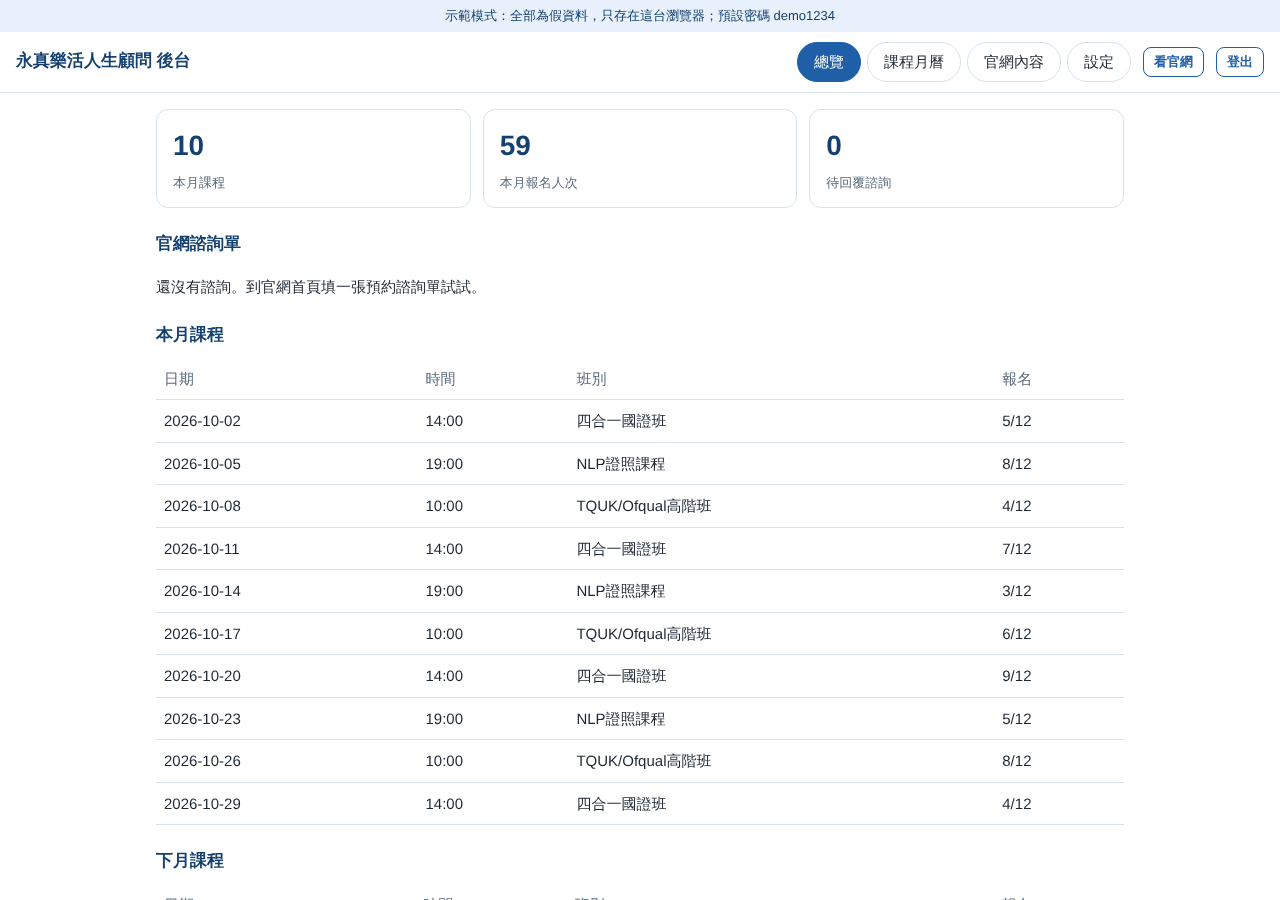
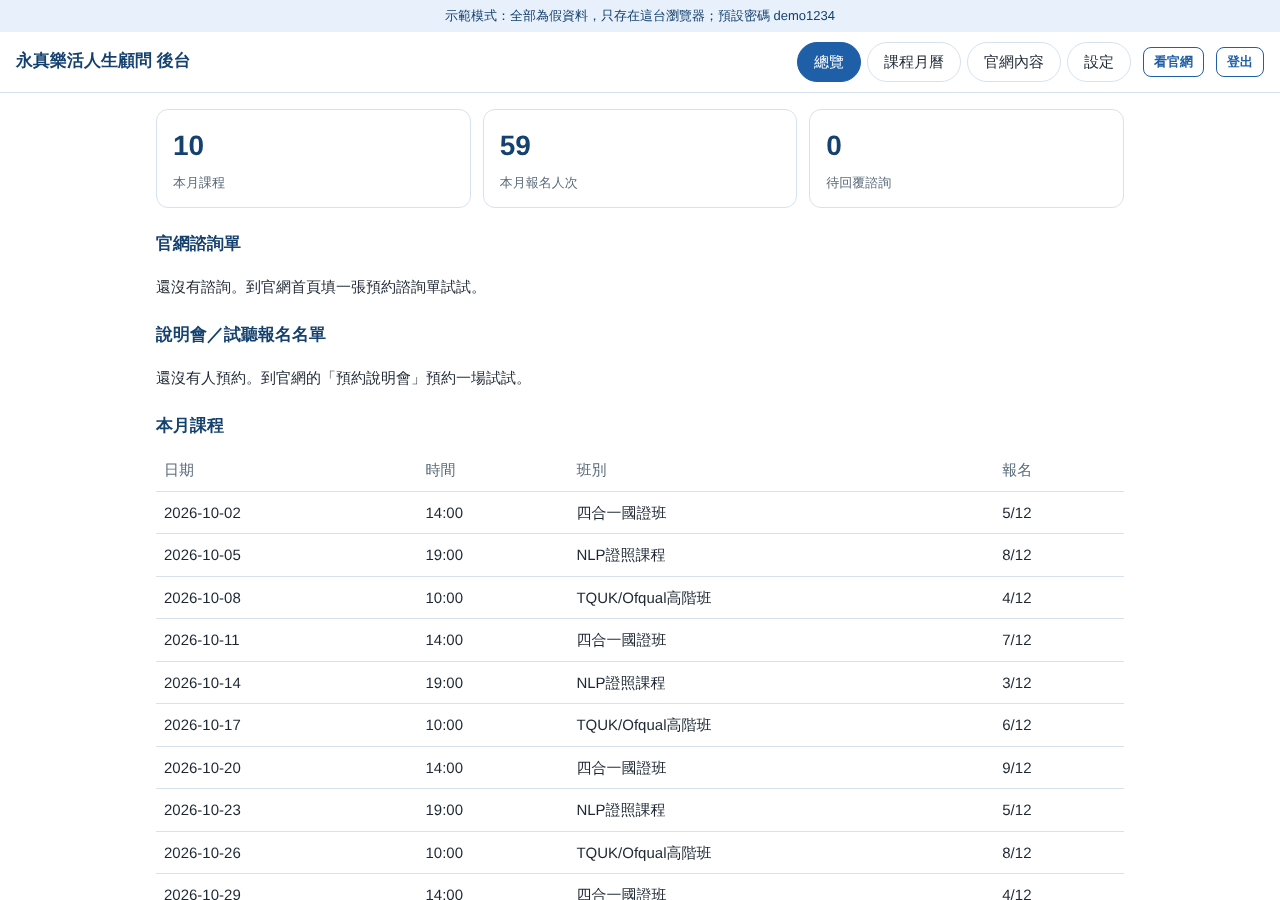
Add carousel, lightbox, news management, session booking, privacy and terms pages
Claude-Session: https://claude.ai/code/session_019kNnCbEj1agt1GxmbbquhY

diff --git a/yongzhen-site/src/admin.js b/yongzhen-site/src/admin.js
@@ -2,30 +2,13 @@
 'use strict';
 var S=window.SITE,$=function(s,r){return (r||document).querySelector(s)};
 var app=$('#app');
-function get(k,d){try{var v=localStorage.getItem(k);return v?JSON.parse(v):d}catch(e){return d}}
-function set(k,v){try{localStorage.setItem(k,JSON.stringify(v))}catch(e){toast('瀏覽器空間不足或被封鎖')}}
+function get(k,d){return YZ.get(k,d)}
+function set(k,v){if(!YZ.set(k,v))toast('瀏覽器空間不足或被封鎖')}
 function esc(s){return String(s==null?'':s).replace(/[&<>"]/g,function(c){return{'&':'&amp;','<':'&lt;','>':'&gt;','"':'&quot;'}[c]})}
 function toast(t){var d=document.createElement('div');d.className='toast';d.textContent=t;document.body.appendChild(d);setTimeout(function(){d.remove()},1800)}
-var pad=function(n){return n<10?'0'+n:''+n};
-var ym=function(d){return d.getFullYear()+'-'+pad(d.getMonth()+1)};
 
-// ---- 假資料（只在第一次建立）----
-function seedSessions(){
-  var out=[],now=new Date(),times=['10:00','14:00','19:00'],n=0;
-  for(var m=0;m<2;m++){
-    var base=new Date(now.getFullYear(),now.getMonth()+m,1),days=new Date(base.getFullYear(),base.getMonth()+1,0).getDate();
-    for(var d=2;d<=days;d+=3){
-      var c=S.courses[n%S.courses.length];n++;
-      out.push({id:'s'+m+'-'+d,date:ym(base)+'-'+pad(d),time:times[n%3],course:c.name,seats:12,enrolled:3+(d%7)});
-    }
-  }
-  return out;
-}
-function state(){
-  var st=get('yz_admin',null);
-  if(!st){st={pw:'demo1234',sessions:seedSessions()};set('yz_admin',st)}
-  return st;
-}
+function state(){return YZ.admin(S.courses)}
+var pad=YZ.pad,ym=YZ.ym;
 var ST=state(),tab=sessionStorage.getItem('yz_tab')||'總覽',selDay=null,calBase=new Date();
 var TABS=['總覽','課程月曆','官網內容','設定'];
 
@@ -42,6 +25,12 @@ function render(){
   var v={'總覽':overview,'課程月曆':calendar,'官網內容':content,'設定':settings}[tab];v($('#main'));
 }
 
+function bookTable(){
+  var B=get('yz_bookings',[]);
+  if(!B.length)return '<p>還沒有人預約。到官網的「預約說明會」預約一場試試。</p>';
+  return '<table><tr><th>預約時間</th><th>場次</th><th>姓名</th><th>電話</th><th>備註</th><th></th></tr>'+B.map(function(b,i){
+    return '<tr><td>'+esc(b.at.slice(0,16).replace('T',' '))+'</td><td>'+esc(b.session)+'</td><td>'+esc(b.name)+'</td><td>'+esc(b.phone)+'</td><td>'+esc(b.note)+'</td><td><button class="btn ghost sm" data-cancel="'+i+'">取消</button></td></tr>'}).join('')+'</table>';
+}
 function overview(el){
   var cm=ym(new Date()),nx=ym(new Date(new Date().getFullYear(),new Date().getMonth()+1,1));
   var L=get('yz_leads',[]),sm=ST.sessions.filter(function(s){return s.date.indexOf(cm)===0}),sn=ST.sessions.filter(function(s){return s.date.indexOf(nx)===0});
@@ -49,7 +38,11 @@ function overview(el){
   function list(a){return a.length?'<table><tr><th>日期</th><th>時間</th><th>班別</th><th>報名</th></tr>'+a.map(function(s){return '<tr><td>'+s.date+'</td><td>'+s.time+'</td><td>'+esc(s.course)+'</td><td>'+s.enrolled+'/'+s.seats+'</td></tr>'}).join('')+'</table>':'<p>沒有課程</p>'}
   el.innerHTML='<div class="stats"><div class="stat"><b>'+sm.length+'</b><span>本月課程</span></div><div class="stat"><b>'+en+'</b><span>本月報名人次</span></div><div class="stat"><b>'+L.filter(function(l){return l.status==='新諮詢'}).length+'</b><span>待回覆諮詢</span></div></div>'
    +'<h2>官網諮詢單</h2>'+(L.length?'<table><tr><th>時間</th><th>姓名</th><th>電話</th><th>班別</th><th>留言</th><th>狀態</th></tr>'+L.map(function(l,i){return '<tr><td>'+esc(l.at.slice(0,16).replace('T',' '))+'</td><td>'+esc(l.name)+'</td><td>'+esc(l.phone)+'</td><td>'+esc(l.course)+'</td><td>'+esc(l.msg)+'</td><td><button class="btn ghost sm" data-i="'+i+'">'+esc(l.status)+'</button></td></tr>'}).join('')+'</table>':'<p>還沒有諮詢。到官網首頁填一張預約諮詢單試試。</p>')
+   +'<h2>說明會／試聽報名名單</h2>'+bookTable()
    +'<h2>本月課程</h2>'+list(sm)+'<h2>下月課程</h2>'+list(sn);
+  el.querySelectorAll('button[data-cancel]').forEach(function(b){b.onclick=function(){
+    var B=get('yz_bookings',[]),x=B.splice(+b.dataset.cancel,1)[0];set('yz_bookings',B);
+    var st=get('yz_admin',ST);st.sessions.forEach(function(s){if(s.id===x.sid&&s.enrolled>0)s.enrolled--});ST=st;set('yz_admin',ST);toast('已取消預約');render()}});
   el.querySelectorAll('button[data-i]').forEach(function(b){b.onclick=function(){var l=get('yz_leads',[]),x=l[b.dataset.i];x.status=x.status==='新諮詢'?'已回覆':'新諮詢';set('yz_leads',l);render()}});
 }
 
@@ -80,23 +73,30 @@ function content(el){
   var h='<p>改完按「儲存」，再到官網重新整理就會看到（示範模式）。</p>';
   h+='<h2>首頁</h2><label>主標題<input id="f_heroTitle" value="'+esc(val('heroTitle',S.heroTitle))+'"></label><label>副標題<textarea id="f_heroSub" rows="2">'+esc(val('heroSub',S.heroSub))+'</textarea></label>';
   h+='<h2>三個證照班簡介</h2>'+S.courses.map(function(c){return '<label>'+esc(c.name)+'<textarea id="f_course.'+c.slug+'.summary" rows="2">'+esc(val('course.'+c.slug+'.summary',c.summary))+'</textarea></label>'}).join('');
-  h+='<h2>最新消息 <small>（一行一則）</small></h2><textarea id="f_news" rows="4">'+esc(val('news',S.news.join('\n')))+'</textarea>';
+  var news=get('yz_news',null)||S.news;
+  h+='<h2>最新消息</h2><div id="newsRows">'+news.map(newsRow).join('')+'</div><button class="btn ghost sm" id="addn">＋新增一則</button>';
   h+='<h2>常見問題</h2><div id="faqs">'+faq.map(function(f,i){return faqRow(f,i)}).join('')+'</div><button class="btn ghost sm" id="addf">＋新增一題</button>';
-  h+='<h2>網站照片 <small>（示範：存在瀏覽器，正式版存雲端）</small></h2>'+S.courses.map(function(c){var u=C['photo.course.'+c.slug];return '<div class="card row"><div class="thumb" style="'+(u?'background-image:url('+u+')':'')+'">'+(u?'':'未上傳')+'</div><div><b>'+esc(c.name)+'</b><br><input type="file" accept="image/*" data-p="photo.course.'+c.slug+'" style="width:auto"></div></div>'}).join('');
+  var slots=[['slide.1','首頁輪播第 1 張'],['slide.2','首頁輪播第 2 張'],['slide.3','首頁輪播第 3 張']].concat(S.courses.map(function(c){return ['course.'+c.slug,c.name+'（卡片與課程頁大圖）']}));
+  h+='<h2>網站照片 <small>（示範：存在瀏覽器，正式版存雲端）</small></h2>'+slots.map(function(sl){var u=C['photo.'+sl[0]];return '<div class="card row"><div class="thumb" style="'+(u?'background-image:url('+u+')':'')+'">'+(u?'':'未上傳')+'</div><div><b>'+esc(sl[1])+'</b><br><input type="file" accept="image/*" data-p="photo.'+sl[0]+'" style="width:auto"></div></div>'}).join('');
   h+='<h2>網頁標題（搜尋／分享）</h2><label>首頁標題 <small>建議 30 字內，含主要關鍵字</small><input id="f_seo.title" value="'+esc(val('seo.title',''))+'" placeholder="'+esc(S.brand+'｜三大國際證照班')+'"></label><label>首頁描述 <small>建議 80～120 字</small><textarea id="f_seo.desc" rows="3">'+esc(val('seo.desc',''))+'</textarea></label>';
   h+='<p><button class="btn" id="save">儲存</button></p>';
   el.innerHTML=h;
+  function newsRow(n){return '<div class="card newsr"><label>日期<input class="nd" type="date" value="'+esc(n.date)+'"></label><label>標題<input class="nt" value="'+esc(n.title)+'"></label><label>內容<textarea class="nb" rows="2">'+esc(n.body)+'</textarea></label><button class="btn ghost sm rmn">刪除</button></div>'}
+  $('#addn').onclick=function(){var d=document.createElement('div');d.innerHTML=newsRow({date:new Date().toISOString().slice(0,10),title:'',body:''});$('#newsRows').insertBefore(d.firstChild,$('#newsRows').firstChild);bindRmn()};
+  function bindRmn(){el.querySelectorAll('.rmn').forEach(function(b){b.onclick=function(){b.parentNode.remove()}})}bindRmn();
   function faqRow(f,i){return '<div class="card"><label>問題<input class="fq" value="'+esc(f[0])+'"></label><label>回答<textarea class="fa" rows="2">'+esc(f[1])+'</textarea></label><button class="btn ghost sm rm">刪除</button></div>'}
   $('#addf').onclick=function(){var d=document.createElement('div');d.innerHTML=faqRow(['',''],0);$('#faqs').appendChild(d.firstChild);bindRm()};
   function bindRm(){el.querySelectorAll('.rm').forEach(function(b){b.onclick=function(){b.parentNode.remove()}})}bindRm();
   el.querySelectorAll('input[type=file]').forEach(function(inp){inp.onchange=function(){
     var f=inp.files[0];if(!f)return;if(f.size>1500000){toast('照片請小於 1.5MB（示範模式限制）');return}
-    var r=new FileReader();r.onload=function(){var c=get('yz_content',{});c[inp.dataset.p]=r.result;set('yz_content',c);toast('已上傳');render()};r.readAsDataURL(f)}});
+    var r=new FileReader();r.onload=function(){var c=get('yz_content',{});c[inp.dataset.p]=r.result;set('yz_content',c);toast('已上傳');var t=inp.closest('.card').querySelector('.thumb');t.style.backgroundImage='url('+r.result+')';t.textContent=''};r.readAsDataURL(f)}});
   $('#save').onclick=function(){
     var c=get('yz_content',{});
     el.querySelectorAll('[id^=f_]').forEach(function(i){var k=i.id.slice(2);if(i.value.trim())c[k]=i.value.trim();else delete c[k]});
     var qs=[].slice.call(el.querySelectorAll('.fq')),as=[].slice.call(el.querySelectorAll('.fa'));
     c.faq=qs.map(function(q,i){return [q.value.trim(),as[i].value.trim()]}).filter(function(x){return x[0]&&x[1]});
+    var rows=[].slice.call(el.querySelectorAll('.newsr')).map(function(r,i){return {id:'n'+Date.now()+i,date:r.querySelector('.nd').value,title:r.querySelector('.nt').value.trim(),body:r.querySelector('.nb').value.trim()}}).filter(function(n){return n.title});
+    rows.sort(function(a,b){return a.date<b.date?1:-1});set('yz_news',rows);
     set('yz_content',c);toast('已儲存');
   };
 }
@@ -108,7 +108,7 @@ function settings(el){
    +'<h2>示範資料</h2><p><button class="btn ghost" id="rs">重設所有示範資料</button></p>';
   $('#sc').onclick=function(){var c=get('yz_content',{});['phone','address','hours','lineId'].forEach(function(k){var v=$('#s_'+k).value.trim();if(v)c[k]=v});set('yz_content',c);toast('已儲存')};
   $('#sp').onclick=function(){var v=$('#np').value;if(v.length<8){toast('密碼至少 8 碼');return}ST.pw=v;set('yz_admin',ST);$('#np').value='';toast('密碼已更新')};
-  $('#rs').onclick=function(){if(confirm('會清除示範用的課程、諮詢單與官網內容，確定？')){['yz_admin','yz_content','yz_leads'].forEach(function(k){localStorage.removeItem(k)});ST=state();toast('已重設');render()}};
+  $('#rs').onclick=function(){if(confirm('會清除示範用的課程、諮詢單與官網內容，確定？')){['yz_admin','yz_content','yz_leads','yz_news','yz_bookings'].forEach(function(k){localStorage.removeItem(k)});ST=state();toast('已重設');render()}};
 }
 render();
 })();

diff --git a/yongzhen-site/src/app.js b/yongzhen-site/src/app.js
@@ -15,14 +15,56 @@
     var key=el.getAttribute('data-k'),v=C[key];
     if(key==='phoneBtn'||key==='floatPhone'){if(C.phone){el.href=tel(C.phone);if(key==='phoneBtn')el.textContent='電話 '+C.phone}return}
     if(v==null||v==='')return;
-    if(el.hasAttribute('data-list')){el.innerHTML='';String(v).split('\n').filter(Boolean).forEach(function(t){var li=document.createElement('li');li.textContent=t;el.appendChild(li)});return}
     if(el.hasAttribute('data-faq')){el.innerHTML='';v.forEach(function(f){var d=document.createElement('details'),s=document.createElement('summary'),p=document.createElement('p');s.textContent=f[0];p.textContent=f[1];d.append(s,p);el.appendChild(d)});return}
     el.textContent=v;if(key==='phone')el.href=tel(v);
   });
   document.querySelectorAll('[data-photo]').forEach(function(el){
-    var u=C['photo.'+el.getAttribute('data-photo')];if(u){el.style.backgroundImage='url('+u+')';el.textContent=''}});
+    var u=C['photo.'+el.getAttribute('data-photo')];if(u){el.style.backgroundImage='url('+u+')';if(el.classList.contains('ph'))el.textContent=''}});
   if(C['seo.title']&&location.pathname==='/')document.title=C['seo.title'];
   if(C['seo.desc']&&location.pathname==='/'){var m=document.querySelector('meta[name=description]');if(m)m.content=C['seo.desc']}
+
+  // 最新消息（後台編輯 → yz_news）
+  var N=null;try{N=JSON.parse(localStorage.getItem('yz_news')||'null')}catch(e){}
+  if(N&&N.length){
+    document.querySelectorAll('[data-news]').forEach(function(el){
+      var mode=el.getAttribute('data-news'),items=mode==='all'?N:N.slice(0,+mode||3);el.innerHTML='';
+      items.forEach(function(n){
+        if(mode==='all'){var a=document.createElement('article');a.className='news-item';a.id=n.id;
+          var t=document.createElement('time');t.textContent=n.date;var h=document.createElement('h2');h.textContent=n.title;var p=document.createElement('p');p.textContent=n.body;a.append(t,h,p);el.appendChild(a)}
+        else{var li=document.createElement('li'),a2=document.createElement('a');a2.href='/news/#'+n.id;a2.textContent=n.title;var sm=document.createElement('small');sm.textContent=' '+n.date;li.append(a2,sm);el.appendChild(li)}
+      });
+    });
+  }
+
+  // 首頁輪播
+  var car=document.querySelector('.carousel');
+  if(car){
+    var slides=[].slice.call(car.querySelectorAll('.slide')),dots=car.querySelector('.dots'),i=0,timer=null;
+    slides.forEach(function(_,k){var b=document.createElement('button');b.setAttribute('aria-label','第 '+(k+1)+' 張');b.onclick=function(){go(k,true)};dots.appendChild(b)});
+    function go(n,user){
+      i=(n+slides.length)%slides.length;
+      slides.forEach(function(s,k){var on=k===i;s.classList.toggle('on',on);s.setAttribute('aria-hidden',on?'false':'true');
+        s.querySelectorAll('a').forEach(function(a){if(on)a.removeAttribute('tabindex');else a.setAttribute('tabindex','-1')})});
+      [].forEach.call(dots.children,function(d,k){d.classList.toggle('on',k===i)});
+      if(user)restart();
+    }
+    function restart(){clearInterval(timer);if(!matchMedia('(prefers-reduced-motion:reduce)').matches)timer=setInterval(function(){go(i+1)},6000)}
+    car.querySelector('.cp').onclick=function(){go(i-1,true)};car.querySelector('.cn').onclick=function(){go(i+1,true)};
+    car.addEventListener('mouseenter',function(){clearInterval(timer)});car.addEventListener('mouseleave',restart);
+    car.addEventListener('focusin',function(){clearInterval(timer)});
+    go(0);restart();
+  }
+
+  // 圖片放大檢視（有照片的 .ph 才可點）
+  var lb=document.getElementById('lb'),zs=[].slice.call(document.querySelectorAll('.ph[data-photo]')).filter(function(e){return e.style.backgroundImage}),zi=0;
+  function show(n){zi=(n+zs.length)%zs.length;lb.querySelector('img').src=zs[zi].style.backgroundImage.replace(/^url\(["']?|["']?\)$/g,'')}
+  if(lb&&zs.length){
+    zs.forEach(function(e,k){e.classList.add('zoom');e.tabIndex=0;e.setAttribute('role','button');e.setAttribute('aria-label','放大檢視');
+      var open=function(){show(k);lb.showModal()};e.addEventListener('click',open);e.addEventListener('keydown',function(ev){if(ev.key==='Enter'||ev.key===' '){ev.preventDefault();open()}})});
+    lb.querySelector('.lbx').onclick=function(){lb.close()};lb.querySelector('.lbp').onclick=function(){show(zi-1)};lb.querySelector('.lbn').onclick=function(){show(zi+1)};
+    lb.addEventListener('click',function(e){if(e.target===lb)lb.close()});
+    lb.addEventListener('keydown',function(e){if(e.key==='ArrowLeft')show(zi-1);if(e.key==='ArrowRight')show(zi+1)});
+  }
 
   var f=document.getElementById('leadForm');
   if(f)f.addEventListener('submit',function(e){e.preventDefault();

diff --git a/yongzhen-site/src/style.css b/yongzhen-site/src/style.css
@@ -79,3 +79,31 @@ input,select,textarea{font:inherit;padding:8px 10px;border:1px solid var(--line)
 [hidden]{display:none!important}
 .nav li.grp{padding:12px 8px 4px;font-size:12px;letter-spacing:.08em;color:var(--mute);border-bottom:1px solid var(--line);font-weight:700}
 @media(max-width:720px){.nav li.grp{display:none}}
+/* v3：輪播、消息、預約、燈箱 */
+.carousel{position:relative;border:1px solid var(--line);border-radius:14px;overflow:hidden;margin-bottom:24px;min-height:300px;background:var(--blue-l)}
+.slide{position:absolute;inset:0;padding:36px 32px 52px;display:flex;flex-direction:column;justify-content:center;gap:6px;opacity:0;visibility:hidden;transition:opacity .5s;background:center/cover}
+.slide.on{position:relative;opacity:1;visibility:visible}
+.slide::before{content:"";position:absolute;inset:0;background:linear-gradient(90deg,var(--bg) 0,color-mix(in srgb,var(--bg) 88%,transparent) 55%,transparent 100%);z-index:0}
+.slide>*{position:relative;z-index:1}
+.slide p{max-width:30em;color:var(--mute);margin:0 0 10px;font-size:17px}.sl-h{font-size:30px;margin:4px 0;border:0;padding:0;color:var(--blue-d)}
+.carousel .row{display:flex;gap:10px;flex-wrap:wrap}
+.cp,.cn{position:absolute;top:50%;transform:translateY(-50%);z-index:2;width:36px;height:36px;border-radius:50%;border:1px solid var(--line);background:var(--bg);color:var(--blue-d);font-size:20px;cursor:pointer;line-height:1}
+.cp{left:10px}.cn{right:10px}
+.dots{position:absolute;left:0;right:0;bottom:12px;display:flex;justify-content:center;gap:8px;z-index:2}
+.dots button{width:10px;height:10px;border-radius:50%;border:1px solid var(--blue);background:transparent;padding:0;cursor:pointer}.dots button.on{background:var(--blue)}
+.zoom{cursor:zoom-in}
+dialog#lb{border:0;background:transparent;max-width:96vw;max-height:94vh;padding:0;overflow:visible}
+dialog#lb::backdrop{background:rgba(8,16,28,.82)}
+#lb img{max-width:92vw;max-height:88vh;display:block;margin:auto;border-radius:10px}
+#lb button{position:absolute;background:rgba(255,255,255,.92);color:#14416f;border:0;border-radius:50%;width:40px;height:40px;font-size:24px;cursor:pointer}
+.lbx{top:-14px;right:-14px}.lbp{left:8px;top:50%}.lbn{right:8px;top:50%}
+.news-item{border-bottom:1px solid var(--line);padding:12px 0;scroll-margin-top:16px}.news-item h2{margin:2px 0 4px;font-size:19px;border:0;padding:0}.news-item time,.cards time{color:var(--mute);font-size:14px}.news-item:target{background:var(--blue-l);border-radius:8px;padding:12px}
+.more-link{display:inline-block;margin-top:6px;font-weight:700;font-size:15px}
+.box li small{color:var(--mute)}
+.slots{display:grid;gap:8px;margin:12px 0}
+.slot{display:flex;align-items:center;gap:12px;border:1px solid var(--line);border-radius:12px;padding:10px 14px;flex-wrap:wrap}.slot>div:first-child{flex:1;min-width:10em}.slot span{color:var(--mute);font-size:14px}
+.slot .left{color:var(--blue-d);font-weight:700;white-space:nowrap}.slot .left.low{color:#b3261e}.slot .btn{padding:6px 16px}.btn[disabled]{opacity:.5;cursor:not-allowed}
+p.draft{background:var(--blue-l);border-radius:8px;padding:8px 12px;font-size:14px;color:var(--blue-d)}
+footer a{margin:0 2px}
+@media(max-width:720px){.slide{padding:24px 18px 48px}.slide p{font-size:15px}.sl-h{font-size:24px}.carousel{min-height:340px}}
+.slide>.eyebrow,.slide>.badge{align-self:flex-start}

diff --git a/yongzhen-site/src/booking.js b/yongzhen-site/src/booking.js
@@ -1,0 +1,34 @@
+(function(){
+'use strict';
+var YZ=window.YZ,box=document.getElementById('slots'),form=document.getElementById('bookForm');
+if(!YZ||!box)return;
+var esc=function(s){return String(s==null?'':s).replace(/[&<>"]/g,function(c){return{'&':'&amp;','<':'&lt;','>':'&gt;','"':'&quot;'}[c]})};
+var st=YZ.admin(window.SITE_COURSES||[]),picked=null;
+var d=new Date(),today=d.getFullYear()+'-'+YZ.pad(d.getMonth()+1)+'-'+YZ.pad(d.getDate());
+function list(){
+  var up=st.sessions.filter(function(s){return s.date>=today}).sort(function(a,b){return (a.date+a.time)<(b.date+b.time)?-1:1}).slice(0,20);
+  if(!up.length){box.innerHTML='<p>目前沒有開放的場次，請<a href="tel:">來電</a>或加入官方帳號詢問。</p>';return}
+  box.innerHTML=up.map(function(s){
+    var left=s.seats-s.enrolled,full=left<=0;
+    return '<div class="slot"><div><b>'+esc(s.date)+' '+esc(s.time)+'</b><br><span>'+esc(s.course)+'</span></div><div class="left'+(left<=3?' low':'')+'">'+(full?'已額滿':'剩 '+left+' 位')+'</div><button class="btn '+(full?'ghost':'primary')+'" data-id="'+esc(s.id)+'"'+(full?' disabled':'')+'>預約</button></div>';
+  }).join('');
+  box.querySelectorAll('button[data-id]').forEach(function(b){b.onclick=function(){
+    picked=st.sessions.filter(function(s){return s.id===b.dataset.id})[0];
+    document.getElementById('picked').textContent='已選：'+picked.date+' '+picked.time+'　'+picked.course;
+    document.getElementById('bookOk').hidden=true;document.getElementById('bookErr').hidden=true;
+    form.hidden=false;form.scrollIntoView({behavior:'smooth',block:'center'});
+  }});
+}
+form.addEventListener('submit',function(e){
+  e.preventDefault();
+  st=YZ.get('yz_admin',st);
+  var s=st.sessions.filter(function(x){return picked&&x.id===picked.id})[0],err=document.getElementById('bookErr');
+  if(!s){err.textContent='找不到這個場次，請重新選擇';err.hidden=false;return}
+  if(s.enrolled>=s.seats){err.textContent='這個場次剛好額滿，請選擇其他場次';err.hidden=false;list();return}
+  var f=Object.fromEntries(new FormData(form)),B=YZ.get('yz_bookings',[]);
+  B.unshift({id:'b'+Date.now(),sid:s.id,session:s.date+' '+s.time+' '+s.course,name:f.name,phone:f.phone,note:f.note||'',at:new Date().toISOString()});
+  s.enrolled+=1;YZ.set('yz_bookings',B);YZ.set('yz_admin',st);
+  form.reset();document.getElementById('bookOk').hidden=false;err.hidden=true;list();
+});
+list();
+})();

diff --git a/yongzhen-site/src/shared.js b/yongzhen-site/src/shared.js
@@ -1,0 +1,25 @@
+(function(){
+'use strict';
+var pad=function(n){return n<10?'0'+n:''+n};
+var YZ=window.YZ={pad:pad};
+YZ.get=function(k,d){try{var v=localStorage.getItem(k);return v?JSON.parse(v):d}catch(e){return d}};
+YZ.set=function(k,v){try{localStorage.setItem(k,JSON.stringify(v));return true}catch(e){return false}};
+YZ.ym=function(d){return d.getFullYear()+'-'+pad(d.getMonth()+1)};
+// 示範用假場次：本月與下月，輪流排入各班別
+YZ.seed=function(courses){
+  var out=[],now=new Date(),times=['10:00','14:00','19:00'],n=0;
+  for(var m=0;m<2;m++){
+    var base=new Date(now.getFullYear(),now.getMonth()+m,1),days=new Date(base.getFullYear(),base.getMonth()+1,0).getDate();
+    for(var d=2;d<=days;d+=3){
+      var c=courses[n%courses.length];n++;
+      out.push({id:'s'+m+'-'+d,date:YZ.ym(base)+'-'+pad(d),time:times[n%3],course:c.name,seats:12,enrolled:3+(d%7)});
+    }
+  }
+  return out;
+};
+YZ.admin=function(courses){
+  var st=YZ.get('yz_admin',null);
+  if(!st){st={pw:'demo1234',sessions:YZ.seed(courses)};YZ.set('yz_admin',st)}
+  return st;
+};
+})();

diff --git a/yongzhen-site/src/admin.html b/yongzhen-site/src/admin.html
@@ -5,5 +5,6 @@
 <div class="demo">示範模式：全部為假資料，只存在這台瀏覽器；預設密碼 demo1234</div>
 <div id="app"></div>
 <script>window.SITE=/*SITE_JSON*/null;</script>
+<script src="/shared.js"></script>
 <script src="/admin.js"></script>
 </body></html>

diff --git a/yongzhen-site/README.md b/yongzhen-site/README.md
@@ -7,6 +7,10 @@
 - 後台：`/admin/`（預設密碼 `demo1234`）四個分頁：總覽、課程月曆、官網內容、設定
 - `dist/_redirects`：舊站 301（content_5 → 四合一國證班、content_2 → NLP證照課程、content_26 → TQUK/Ofqual高階班、content_16 → 好書佳文分享）
 
+## 功能（示範版）
+- 前台：首頁輪播、圖片放大檢視、最新消息（列表頁＋右側欄）、預約說明會／試聽場次（顯示剩餘名額）、隱私權政策與服務條款（基本版草稿，內容由客戶確認）
+- 後台：總覽（含說明會報名名單，可取消）、課程月曆（新增／刪除場次）、官網內容（標題、班別簡介、最新消息增刪、常見問題、輪播與班別照片、搜尋標題）、設定
+
 ## 示範模式
 後台資料與官網內容存在瀏覽器 localStorage，改完在官網重新整理即可看到。
 正式版依建置檔改為 Google Apps Script + 試算表（放客戶自己的 Google 帳號）。
